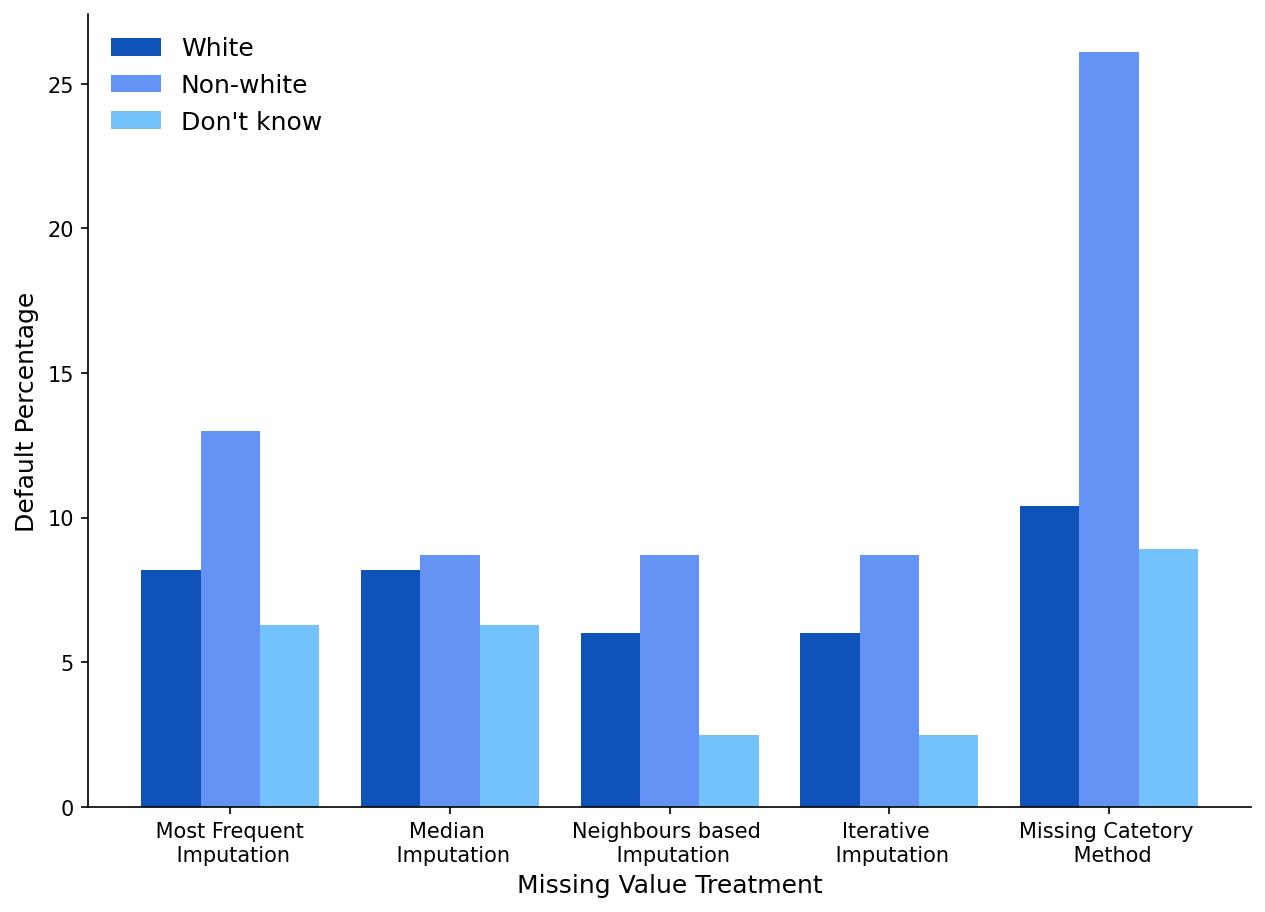
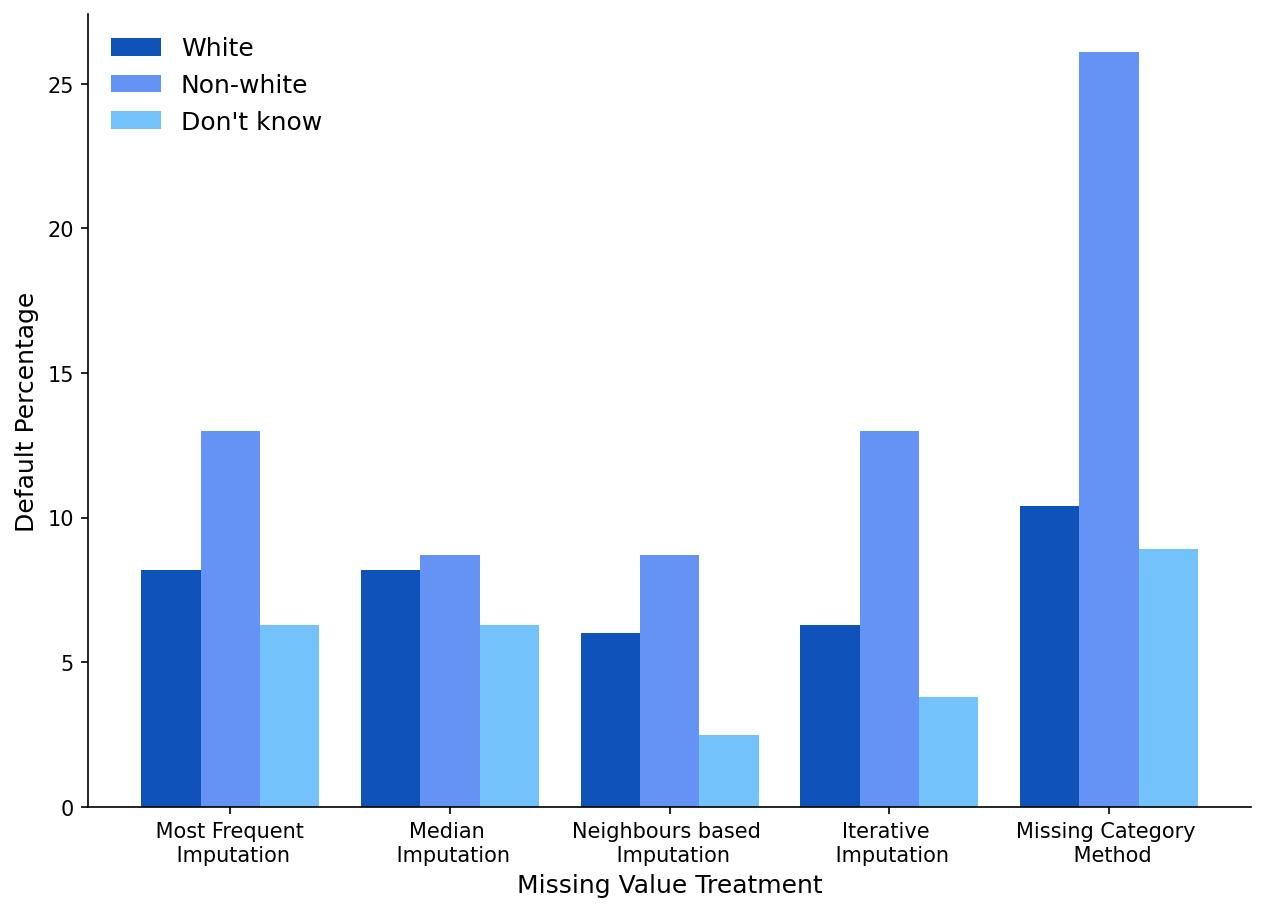
README.md

diff --git a/README.md b/README.md
@@ -101,28 +101,37 @@ Finally, we updated the predictability of each variable in the variable list.xls
 
 Finally, we are attempting to do some preliminary experiments and show some initial results when we do several imputation methods of missing values. We fit a `LOGISTIC` regression model on our training set and evaluate it using k-fold cross-validation. 
 
-1. Imputing the data using ***Most Frequent Imputation***: our AUROC on the test set comes out to *0.9408* with a Gini of *0.8815*.
-2. Imputing the data using ***Median Imputation***: our AUROC on the test set comes out to *0.9405* with a Gini of *0.8810*.
-3. Imputing the data using ***Neighbours based Imputation***: our AUROC on the test set comes out to *0.8776* with a Gini of *0.7552*.
-4. Imputing the data using ***Iterative Imputation***. The final method of imputation is iterative imputation based on a regression model. The idea is to iterate over columns and create a new modelling task: predict this column given all the other columns. Furthermore, our AUROC and Gini are *0.8542* and *0.7082*, respectively.
-5. Except data imputation methods, we do a crude process, ***Missing Category*** method for missing values, which will treated as a separate category by itself. We create another category for the missing values and use them as a different level. Therefore, we obtain the performance of the classifier i.e., AUROC is *0.9632* and Gini is *0.9264*.
+1. Imputing the data using ***Most Frequent Imputation***: our AUROC on the test set comes out to **0.9408** with a Gini of **0.8815**.
+2. Imputing the data using ***Median Imputation***: our AUROC on the test set comes out to **0.9405** with a Gini of **0.8810**.
+3. Imputing the data using ***Neighbours based Imputation***: our AUROC on the test set comes out to **0.8776** with a Gini of **0.7552**.
+4. Imputing the data using ***Iterative Imputation***. The final method of imputation is iterative imputation based on a regression model. The idea is to iterate over columns and create a new modelling task: predict this column given all the other columns. Furthermore, our AUROC and Gini are **0.8542** and **0.7082**, respectively.
+5. Except data imputation methods, we do a crude process, ***Missing Category*** method for missing values, which will treated as a separate category by itself. We create another category for the missing values and use them as a different level. Therefore, we obtain the performance of the classifier i.e., AUROC is **0.9632** and Gini is **0.9264**.
 
 As we can see, given the high proportion of missing values, any technique to impute them will most likely result in inaccurate results.
 
 ### Fairness Through  Unawareness
 
-We simply remove these sensitive  attributes, thus the classifier is unaware of the sense of attributes directly.
+Simply remove these sensitive attributes, thus the classifier is unaware of the sense of attributes directly.
 
 <img src="./fig/ethnic_imputation.jpg" alt="ethnic_imputation" style="zoom:40%;" />
 
-<center>Fig. 5. Classifiers' accuracy w.r.t. the ethnic background of the business owner over four inputation methods.</center>
+<center>Fig. 5. Classifiers' accuracy w.r.t. the ethnic background of the business owner over five missing value treatments.</center>
 
-Even though the sensitive attributes were removed, classifiers are still failed to be unbiased against the certain races. As we can see, different imputation methods affect the fairness of classifiers in Fig. 5. 
+Even though the sensitive attribute was removed, classifiers still failed to be unbiased against certain races. As we can see, different methods for dealing with missing values affect the performance of classifiers of different races in Fig. 5; the default rate of businesses with non-white backgrounds is higher than those with white backgrounds in the test set over all predictors with different missing value treatments in Fig. 6. Therefore, we have concerns about non-white races for SME data since all predictors have demonstrated poor performance and higher default rates for those businesses with non-white backgrounds.
 
 <img src="./fig/ethnic_default.jpg" alt="ethnic_default" style="zoom:40%;" />
 
+<center>Fig. 6. Default rates of different ethnic backgrounds of business owners in the testing set.</center>
+
 ## Next Steps
 
-1. We have completed some preliminary experiments in terms of data imputation methods, which negatively affect the prediction accuracy in our ***DEFAULT*** classification task. However, ***fairness*** concerning sensitive attributes, e.g., gender and ethnic background, has not been involved yet. Therefore, we will carry out the fairness comparison by computing fairness criteria.
-2. The raw data includes over 45,018 surveys, but there are only 2,262 surveys that provided their final outcome regarding their overdraft or loan. Besides, a pretty limited number of data samples have ***ethnic minority backgrounds*** among the 2,262 samples, which might not be convincing. Next, we may consider another attribute, i.e., risk, as our target label instead of the final outcome, with only 3936 missing values out of 45,018 surveys.
+1. We have completed some preliminary experiments in terms of data imputation methods, which negatively affect the prediction accuracy in our ***DEFAULT*** classification task. And we have enough evidence to concern SME, owners of which have non-white background, due to worse prediction accuracy, higher default rate as well.  
+
+2. The raw data includes over 45,018 surveys, but there are only 2,262 surveys that provided their final outcome regarding their overdraft or loan. Besides, a pretty limited number of data samples have ***ethnic minority backgrounds*** among the 2,262 samples, which might not be convincing. So, we need to think about how to utilise the other data to improve fairness of predictors. I have the following potential solutions,
+
+   (1) Intuitively, we can make the most of unlabelled data using semi-supervised learning, that is, generating pseudo labels to predict labels for unlabelled data to obtain new training datasets. Then, we can do traditional fair machine learning on this augmented dataset.
+
+   (2) We can generate a new loss function based on counterfactual fairness, which means that the predictor is counterfactual fair for individuals if predictions in real world scenario and in counterfactual scenario are the same. Specifically, we can construct a optimisation objective that is minimising the prediction discrimination of the sensitive attribute. Finally, our goal will be to learn a classifier to optimise three main objectives, the classification accuracy, common fairness loss and prediction discrimination of unlabelled data.
+
+3. We may consider another attribute, i.e., risk, as our target label instead of the final outcome, with only 3936 missing values out of 45,018 surveys. 
 
